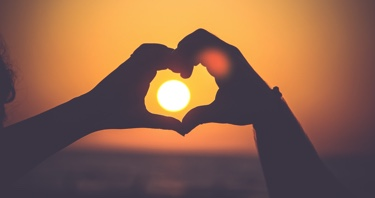
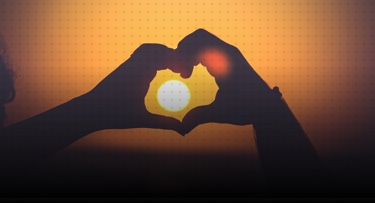
changed a bunch

diff --git a/assets/styles/common/_global.scss b/assets/styles/common/_global.scss
@@ -1,83 +1,27 @@
+body, html {
+  height: 100%;
+  width: 100%;
+}
 body {
   font-size: 18px;
   font-family: 'EB Garamond', serif;
   padding: 0;
   margin: 0;
-  background: url('../images/light_noise_diagonal.png')
+  background: url('../images/light_noise_diagonal.png');
 }
 h1,h2,h3,h4,h5,h6,p {
  line-height: 1.45;
 }
 h1 { font-size: 3em; }
 h2 { font-size: 2em; }
+@media (min-width: 768px) {
+  .mobile {
+    display: none;
+  }
+}
 .headroom {position: fixed;top: 0;left: 0;right: 0;transition: all .2s ease-in-out;}
 .headroom--unpinned {top: -100px;}
 .headroom--pinned {top: 0;}
 .center {
   text-align: center;
 }
-.amor-date {
-  font-family: 'Dancing Script', cursive;
-  padding-top: 30px;
-  clear: both;
-  display: inline-block;
-  text-align: center;
-}
-.amor-date .updated {
-  margin-top: 3px;
-}
-.long-deco, .long-deco-inverse {
-  width: 100px;
-  height: 30px;
-  background: url('../images/long_deco.svg') no-repeat;
-  line-height: 3px;
-}
-.long-deco-inverse {
-  transform: scale(-1, 1);
-}
-.amor-boxed {
-  border: 1px solid $dourado;
-  padding: 10px;
-  height: 70px;
-}
-.amor-inner-box {
-  border: 1px solid $dourado;
-  background: url('../images/checkered_pattern.png');
-  height: 50px;
-}
-
-.amor-inner-box h4 {
-  font-family: 'Dancing Script', cursive;
-  padding: 0 10px;
-}
-
-
-.entry-title {
-  text-align: center;
-}
-.amor-flower-deco {
-  float: left;
-}
-.entry-title a {
-  color: white;
-  font-family: 'Dancing Script', cursive;
-  margin-left: -44px;
-}
-.post {
-  border: 1px solid $dourado;
-  padding: 10px 4px;
-}
-.post header {
-  padding: 15px 10px;
-  background: url('../images/debut_dark.png');
-}
-.post .border {
-  background: url('../images/border.svg');
-  height: 4px;
-  width: 100%;
-  margin-top: -4px;
-}
-.entry-summary {
-  padding: 15px 0;
-}
-

diff --git a/assets/styles/layouts/_posts.scss b/assets/styles/layouts/_posts.scss
@@ -1,0 +1,59 @@
+.amor-date {
+  font-family: 'Dancing Script', cursive;
+  padding-top: 30px;
+  clear: both;
+  display: inline-block;
+  text-align: center;
+}
+.amor-date .updated {
+  margin-top: 3px;
+}
+.long-deco, .long-deco-inverse {
+  width: 100px;
+  height: 30px;
+  background: url('../images/long_deco.svg') no-repeat;
+  line-height: 3px;
+}
+.long-deco-inverse {
+  transform: scale(-1, 1);
+}
+.entry-title {
+  text-align: center;
+}
+.amor-flower-deco {
+  float: left;
+}
+.entry-title a, .entry-title {
+  color: white;
+  font-family: 'Dancing Script', cursive;
+  margin-left: -44px;
+}
+.post {
+  border: 1px solid $dourado;
+  padding: 10px 4px;
+}
+.post header {
+  padding: 15px 10px;
+  background: url('../images/debut_dark.png');
+}
+.post .border {
+  background: url('../images/border.svg');
+  height: 4px;
+  width: 100%;
+  margin-top: -4px;
+}
+.entry-summary {
+  padding: 15px;
+  @media (min-width: 768px) {
+    padding: 5rem 3rem;
+  }
+}
+.post-footer {
+  border-top: 1px dashed #979797;
+  height: 80px;
+  padding: 15px 5px;
+}
+.post-footer img {
+  float: right;
+  margin-top: 20px;
+}

diff --git a/assets/styles/layouts/_header.scss b/assets/styles/layouts/_header.scss
@@ -1,7 +1,11 @@
 .mobile-header {
   background: url('../images/background.jpg') no-repeat center/cover;
+  @media (min-width: 600px) {
+    background: url('../images/background_BIG.jpg') no-repeat center/cover;
+  }
   height: 300px;
   width: 100%;
+  text-align: center;
 }
 .mobile-header img {
   margin-top: 100px;
@@ -9,6 +13,7 @@
 .btn-navbar {
   height: 35px;
   background: url('../images/menu.svg') no-repeat center/contain;
+  float: right;
 }
 .navbar {
   background: $rosa !important;
@@ -21,4 +26,26 @@
 }
 .nav-collapse a {
   color: white;
+}
+//Page-header
+.amor-boxed {
+  border: 1px solid $dourado;
+  padding: 10px;
+  height: 70px;
+}
+.amor-inner-box {
+  border: 1px solid $dourado;
+  background: url('../images/checkered_pattern.png');
+  height: 50px;
+}
+.amor-inner-box img {
+  float: right;
+  height: 20px;
+  @media (min-width: 480px) {
+    height: 28px;
+  }
+}
+.amor-inner-box h4 {
+  font-family: 'Dancing Script', cursive;
+  padding: 0 10px;
 }

diff --git a/assets/styles/main.scss b/assets/styles/main.scss
@@ -1,6 +1,6 @@
 @import "common/_variables";
-@import url(https://fonts.googleapis.com/css?family=Dancing+Script);
-@import url(https://fonts.googleapis.com/css?family=EB+Garamond);
+// @import url(https://fonts.googleapis.com/css?family=Dancing+Script);
+// @import url(https://fonts.googleapis.com/css?family=EB+Garamond);
 
 // Automatically injected Bower dependencies via wiredep (never manually edit this block)
 // bower:scss
@@ -14,6 +14,7 @@
 @import "components/_grid";
 @import "components/_wp-classes";
 @import "layouts/_header";
+@import "layouts/_menu";
 @import "layouts/_sidebar";
 @import "layouts/_footer";
 @import "layouts/_pages";

diff --git a/assets/scripts/main.js b/assets/scripts/main.js
@@ -24,6 +24,8 @@
          maximum : 1200
         });
         $('.navbar').headroom();
+        // Menu onClick, fade in, animate enter each <li>
+        $('.btn-navbar').on('click', console.log("clicked:"));
       },
       finalize: function() {
         // JavaScript to be fired on all pages, after page specific JS is fired

diff --git a/assets/styles/layouts/_menu.scss b/assets/styles/layouts/_menu.scss
@@ -1,0 +1,6 @@
+.mobile-menu {
+  display: none;
+  height: 100%;
+  width: 100%;
+  background: $rosa;
+}

diff --git a/assets/styles/layouts/_sidebar.scss b/assets/styles/layouts/_sidebar.scss
@@ -1,0 +1,5 @@
+.sidebar {
+  @media(min-width: 768px){
+    padding-top: 85px;
+  }
+}

diff --git a/assets/styles/layouts/_pages.scss b/assets/styles/layouts/_pages.scss
@@ -1,0 +1,4 @@
+.amor-page {
+  clear: both;
+  padding: 15px;
+}

diff --git a/templates/header.php b/templates/header.php
@@ -1,16 +1,20 @@
 <header class="banner" role="banner">
   <a class="brand" href="<?= esc_url(home_url('/')); ?>">
     <div class="mobile-header">
-      <?php bloginfo('name'); ?>
-      <img src="<?= get_template_directory_uri() . '/dist/images/logo.png'; ?>" height="88" width="345">
+      <!-- <?php bloginfo('name'); ?> -->
+       <?php if ( get_theme_mod( 'm1_header' ) ) : ?>
+          <img src="<?php echo get_theme_mod( 'm1_header' ); ?>" alt="<?php echo esc_attr( get_bloginfo( 'name', 'display' ) ); ?>" height="88" width="345">
+        <?php else : ?>
+          <img src="<?= get_template_directory_uri() . '/dist/images/logo.png'; ?>" height="88" width="345">
+        <?php endif; ?>
     </div>
   </a>
   <nav class="navbar">
     <div class="navbar-inner">
       <div class="container">
+        <a class="brand" href="<?php echo esc_url(home_url('/')); ?>"><img src="<?= get_template_directory_uri() . '/dist/images/logo_white_small.svg'; ?>"></a>
         <div type="button" class="btn btn-navbar" data-toggle="collapse" data-target=".nav-collapse">
         </div>
-        <a class="brand" href="#"><img src="<?= get_template_directory_uri() . '/dist/images/logo_white_small.svg'; ?>"></a>
         <div class="nav-collapse collapse">
           <?php
           if (has_nav_menu('primary_navigation')) :

diff --git a/lib/extras.php b/lib/extras.php
@@ -31,3 +31,18 @@ function excerpt_more() {
   return ' &hellip; <a href="' . get_permalink() . '">' . __('Continued', 'sage') . '</a>';
 }
 add_filter('excerpt_more', __NAMESPACE__ . '\\excerpt_more');
+
+/**
+ * Header uploader
+ */
+// function m1_customize_register( $wp_customize ) {
+//     $wp_customize->add_setting( 'm1_header' ); // Add setting for Header uploader
+
+//     // Add control for Header uploader (actual uploader)
+//     $wp_customize->add_control( new WP_Customize_Image_Control( $wp_customize, 'm1_header', array(
+//         'label'    => __( 'Upload Header Image', 'm1' ),
+//         'section'  => 'title_tagline',
+//         'settings' => 'm1_header',
+//     ) ) );
+// }
+// add_action( 'customize_register', 'm1_customize_register' );

diff --git a/lib/titles.php b/lib/titles.php
@@ -10,14 +10,14 @@ function title() {
     if (get_option('page_for_posts', true)) {
       return get_the_title(get_option('page_for_posts', true));
     } else {
-      return __('Latest Posts', 'sage');
+      return __('Últimas postagens', 'sage');
     }
   } elseif (is_archive()) {
     return get_the_archive_title();
   } elseif (is_search()) {
-    return sprintf(__('Search Results for %s', 'sage'), get_search_query());
+    return sprintf(__('Resultados para pesquisa %s', 'sage'), get_search_query());
   } elseif (is_404()) {
-    return __('Not Found', 'sage');
+    return __('Não encontrada', 'sage');
   } else {
     return get_the_title();
   }

diff --git a/templates/content-single.php b/templates/content-single.php
@@ -1,9 +1,11 @@
 <?php while (have_posts()) : the_post(); ?>
   <article <?php post_class(); ?>>
+    <?php get_template_part('templates/entry-meta'); ?>
     <header>
-      <h1 class="entry-title"><?php the_title(); ?></h1>
-      <?php get_template_part('templates/entry-meta'); ?>
+      <img class="amor-flower-deco" src="<?= get_template_directory_uri() . '/dist/images/flower_deco.svg'; ?>">
+      <h2 class="entry-title"><?php the_title(); ?></h2>
     </header>
+    <div class="border"></div>
     <div class="entry-content">
       <?php the_content(); ?>
     </div>
